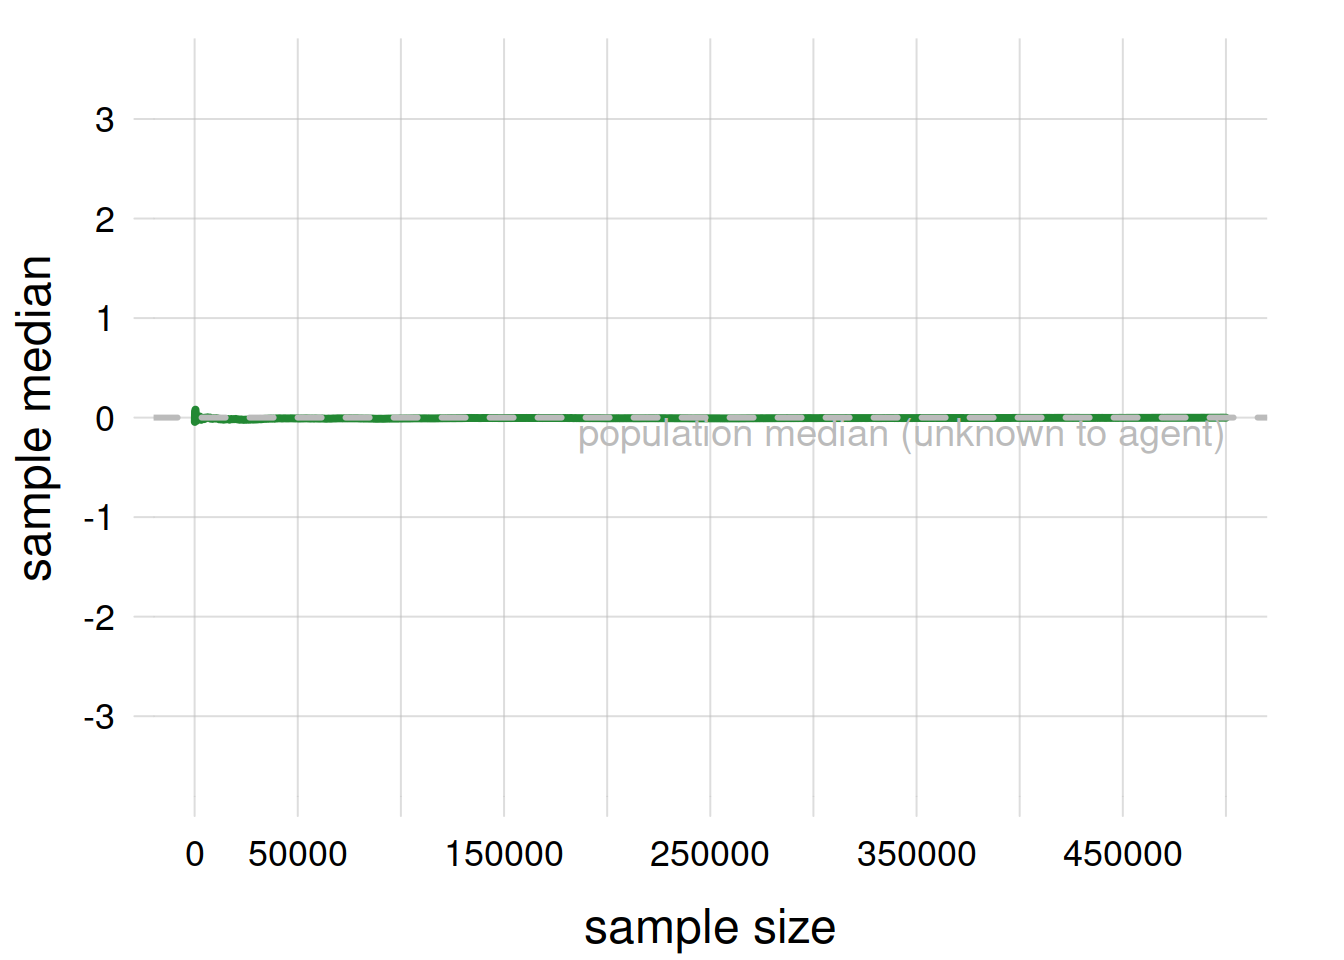
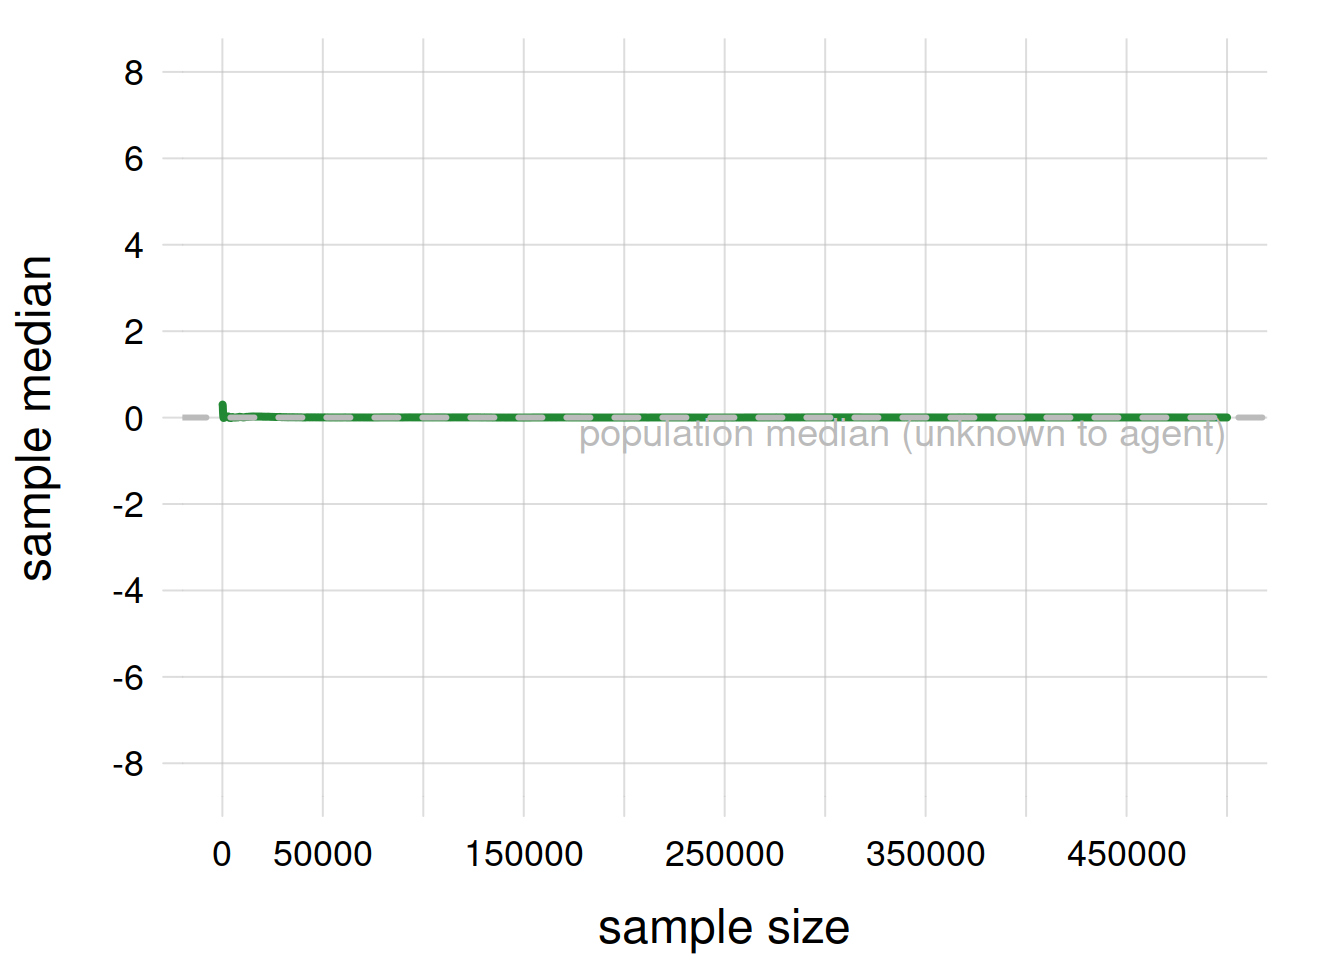
update samples chapter

diff --git a/docs/samples.html b/docs/samples.html
@@ -1057,7 +1057,7 @@ Table&nbsp;23.2: Four-bit population
 <div class="cell">
 <div class="sourceCode cell-code" id="cb1"><pre class="sourceCode r code-with-copy"><code class="sourceCode r"><span id="cb1-1"><a href="#cb1-1" aria-hidden="true" tabindex="-1"></a><span class="do">## Load custom plot functions</span></span>
 <span id="cb1-2"><a href="#cb1-2" aria-hidden="true" tabindex="-1"></a><span class="fu">source</span>(<span class="st">'code/tplotfunctions.R'</span>)</span>
-<span id="cb1-3"><a href="#cb1-3" aria-hidden="true" tabindex="-1"></a><span class="fu">set.seed</span>(<span class="dv">100</span>) <span class="co"># to reproduce results</span></span>
+<span id="cb1-3"><a href="#cb1-3" aria-hidden="true" tabindex="-1"></a><span class="fu">set.seed</span>(<span class="dv">1000</span>) <span class="co"># to reproduce results</span></span>
 <span id="cb1-4"><a href="#cb1-4" aria-hidden="true" tabindex="-1"></a></span>
 <span id="cb1-5"><a href="#cb1-5" aria-hidden="true" tabindex="-1"></a>N <span class="ot">&lt;-</span> <span class="dv">1000000</span> <span class="co"># population size</span></span>
 <span id="cb1-6"><a href="#cb1-6" aria-hidden="true" tabindex="-1"></a></span>
@@ -1071,13 +1071,13 @@ Table&nbsp;23.2: Four-bit population
 <span id="cb1-14"><a href="#cb1-14" aria-hidden="true" tabindex="-1"></a><span class="fu">cat</span>(<span class="st">'</span><span class="sc">\n</span><span class="st">The full-population mean is'</span>, popmean, <span class="st">'(unknown to the agent)</span><span class="sc">\n</span><span class="st">'</span>)</span></code><button title="Copy to Clipboard" class="code-copy-button"><i class="bi"></i></button></pre></div>
 <div class="cell-output cell-output-stdout">
 <pre><code>
-The full-population mean is 1.26394 (unknown to the agent)</code></pre>
+The full-population mean is -8.04481 (unknown to the agent)</code></pre>
 </div>
 <div class="sourceCode cell-code" id="cb3"><pre class="sourceCode r code-with-copy"><code class="sourceCode r"><span id="cb3-1"><a href="#cb3-1" aria-hidden="true" tabindex="-1"></a>popmedian <span class="ot">&lt;-</span> <span class="fu">median</span>(T)</span>
 <span id="cb3-2"><a href="#cb3-2" aria-hidden="true" tabindex="-1"></a><span class="fu">cat</span>(<span class="st">'</span><span class="sc">\n</span><span class="st">The full-population median is'</span>, popmedian, <span class="st">'(unknown to the agent)</span><span class="sc">\n</span><span class="st">'</span>)</span></code><button title="Copy to Clipboard" class="code-copy-button"><i class="bi"></i></button></pre></div>
 <div class="cell-output cell-output-stdout">
 <pre><code>
-The full-population median is 0.000297083 (unknown to the agent)</code></pre>
+The full-population median is 0.00188701 (unknown to the agent)</code></pre>
 </div>
 </div>
 <p>Now we imagine that the agent accumulates samples from the population, starting from 100, increasing by 100 units, until half of the population has been sampled. At each sample increase the agent calculates the sample mean. We plot how the sample mean changes with the sample size. We also plot indicate the full-population mean, which the agent doesn’t know and is trying to guess:</p>
